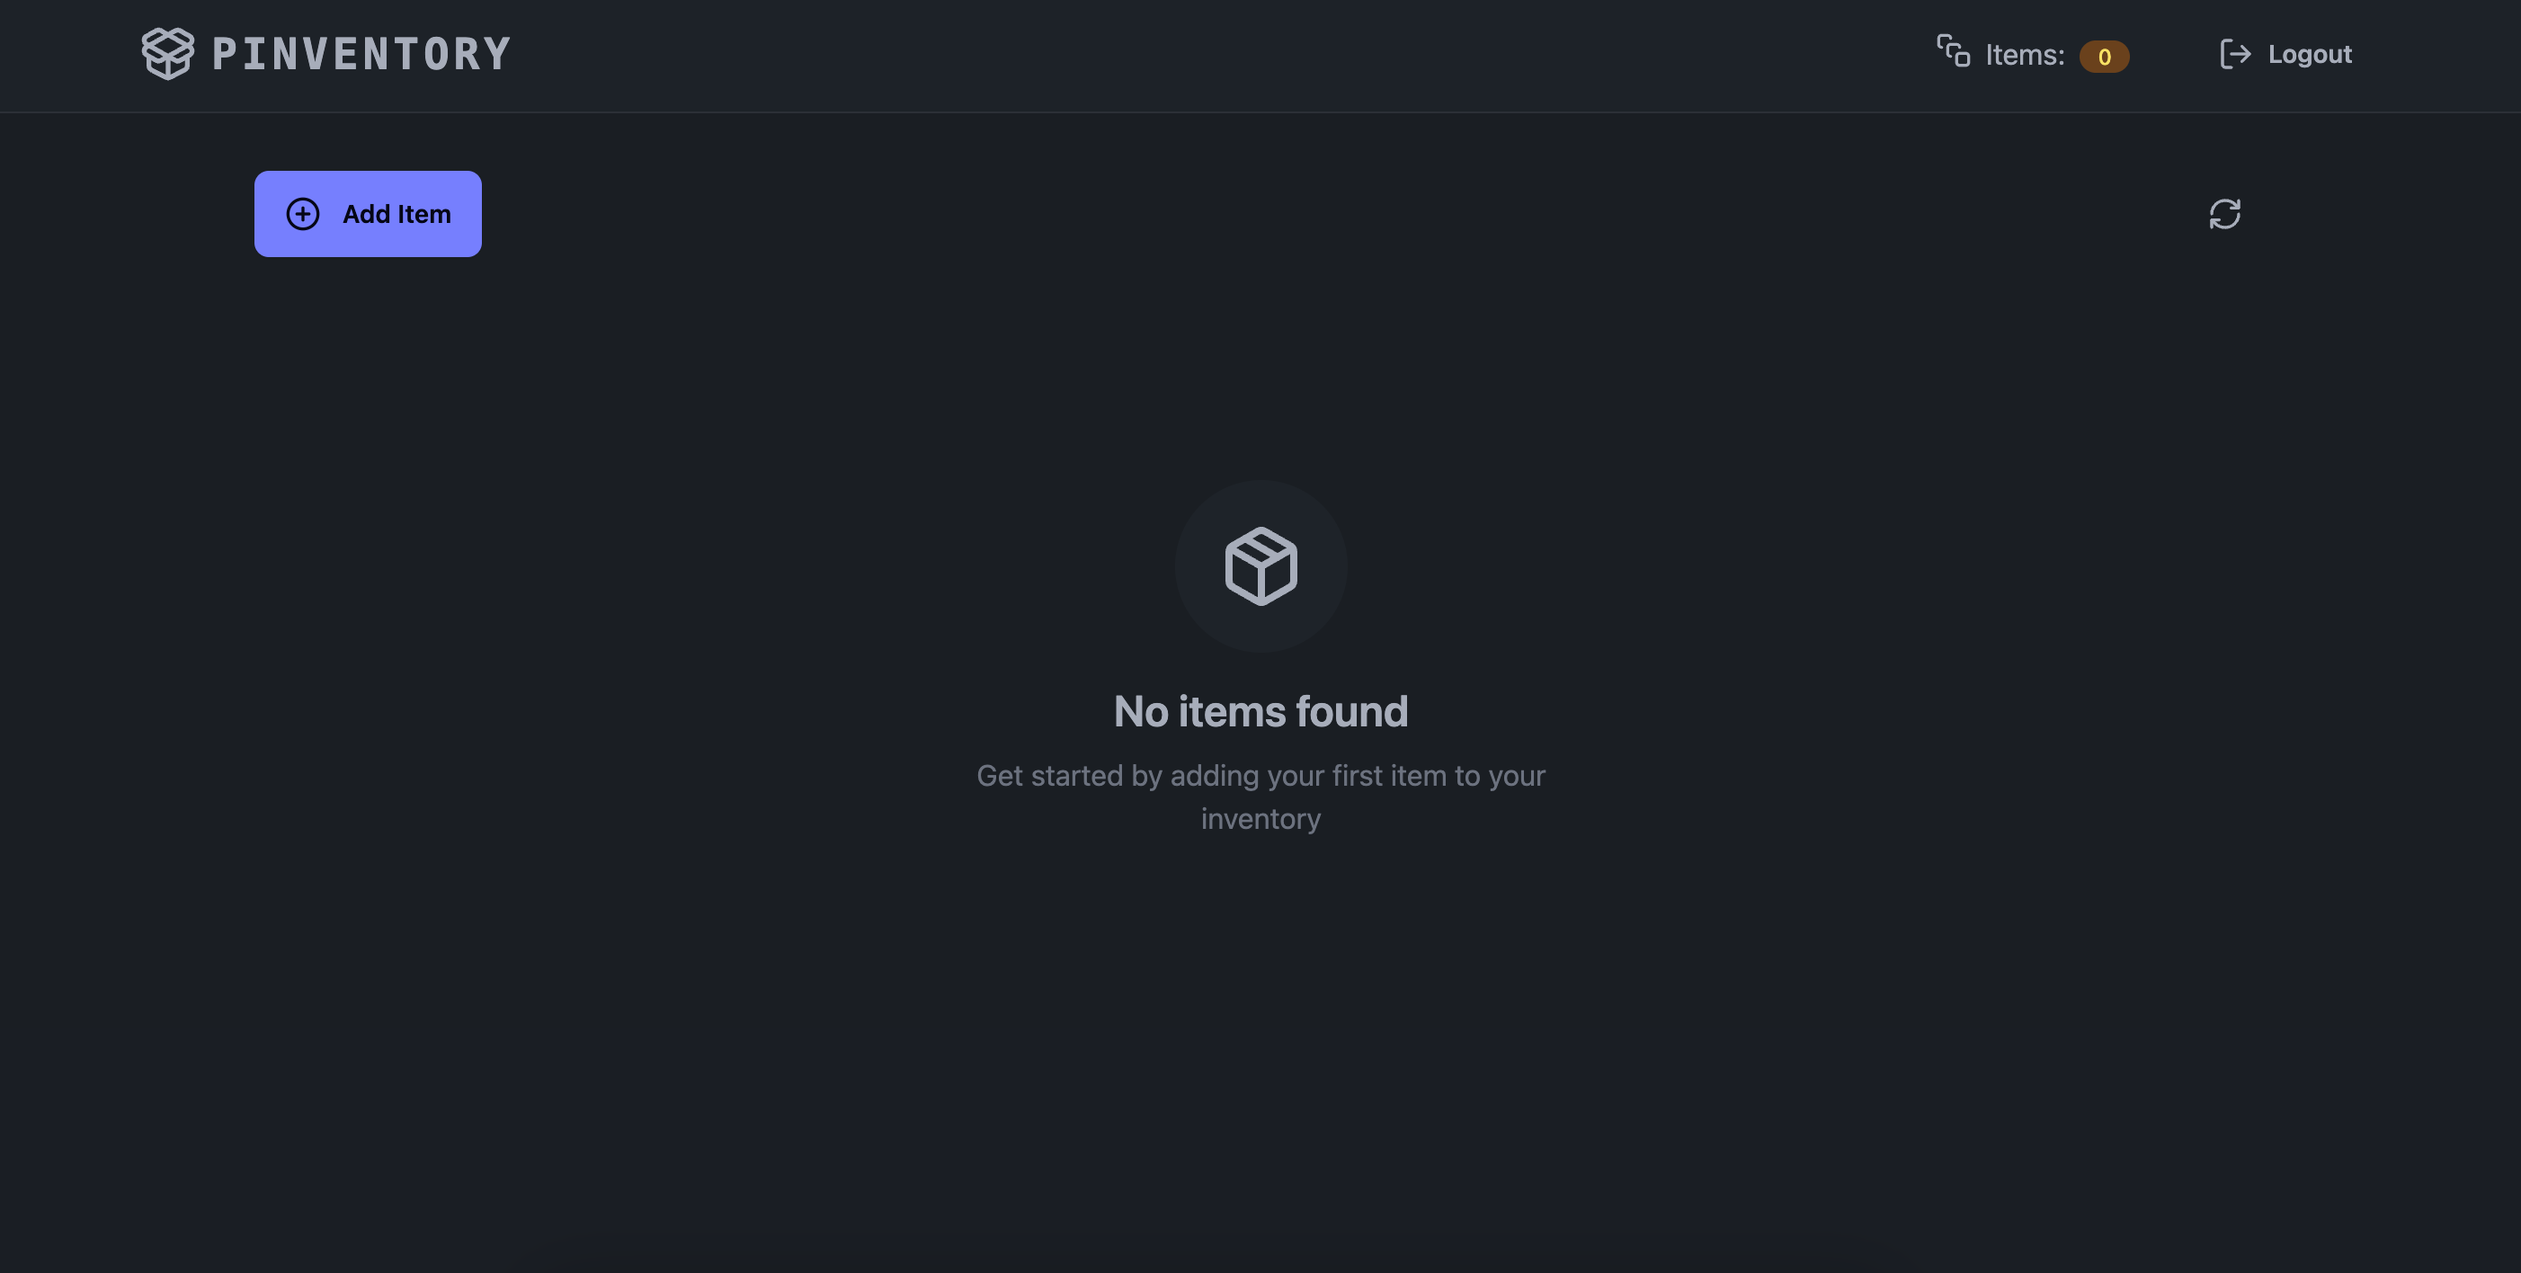
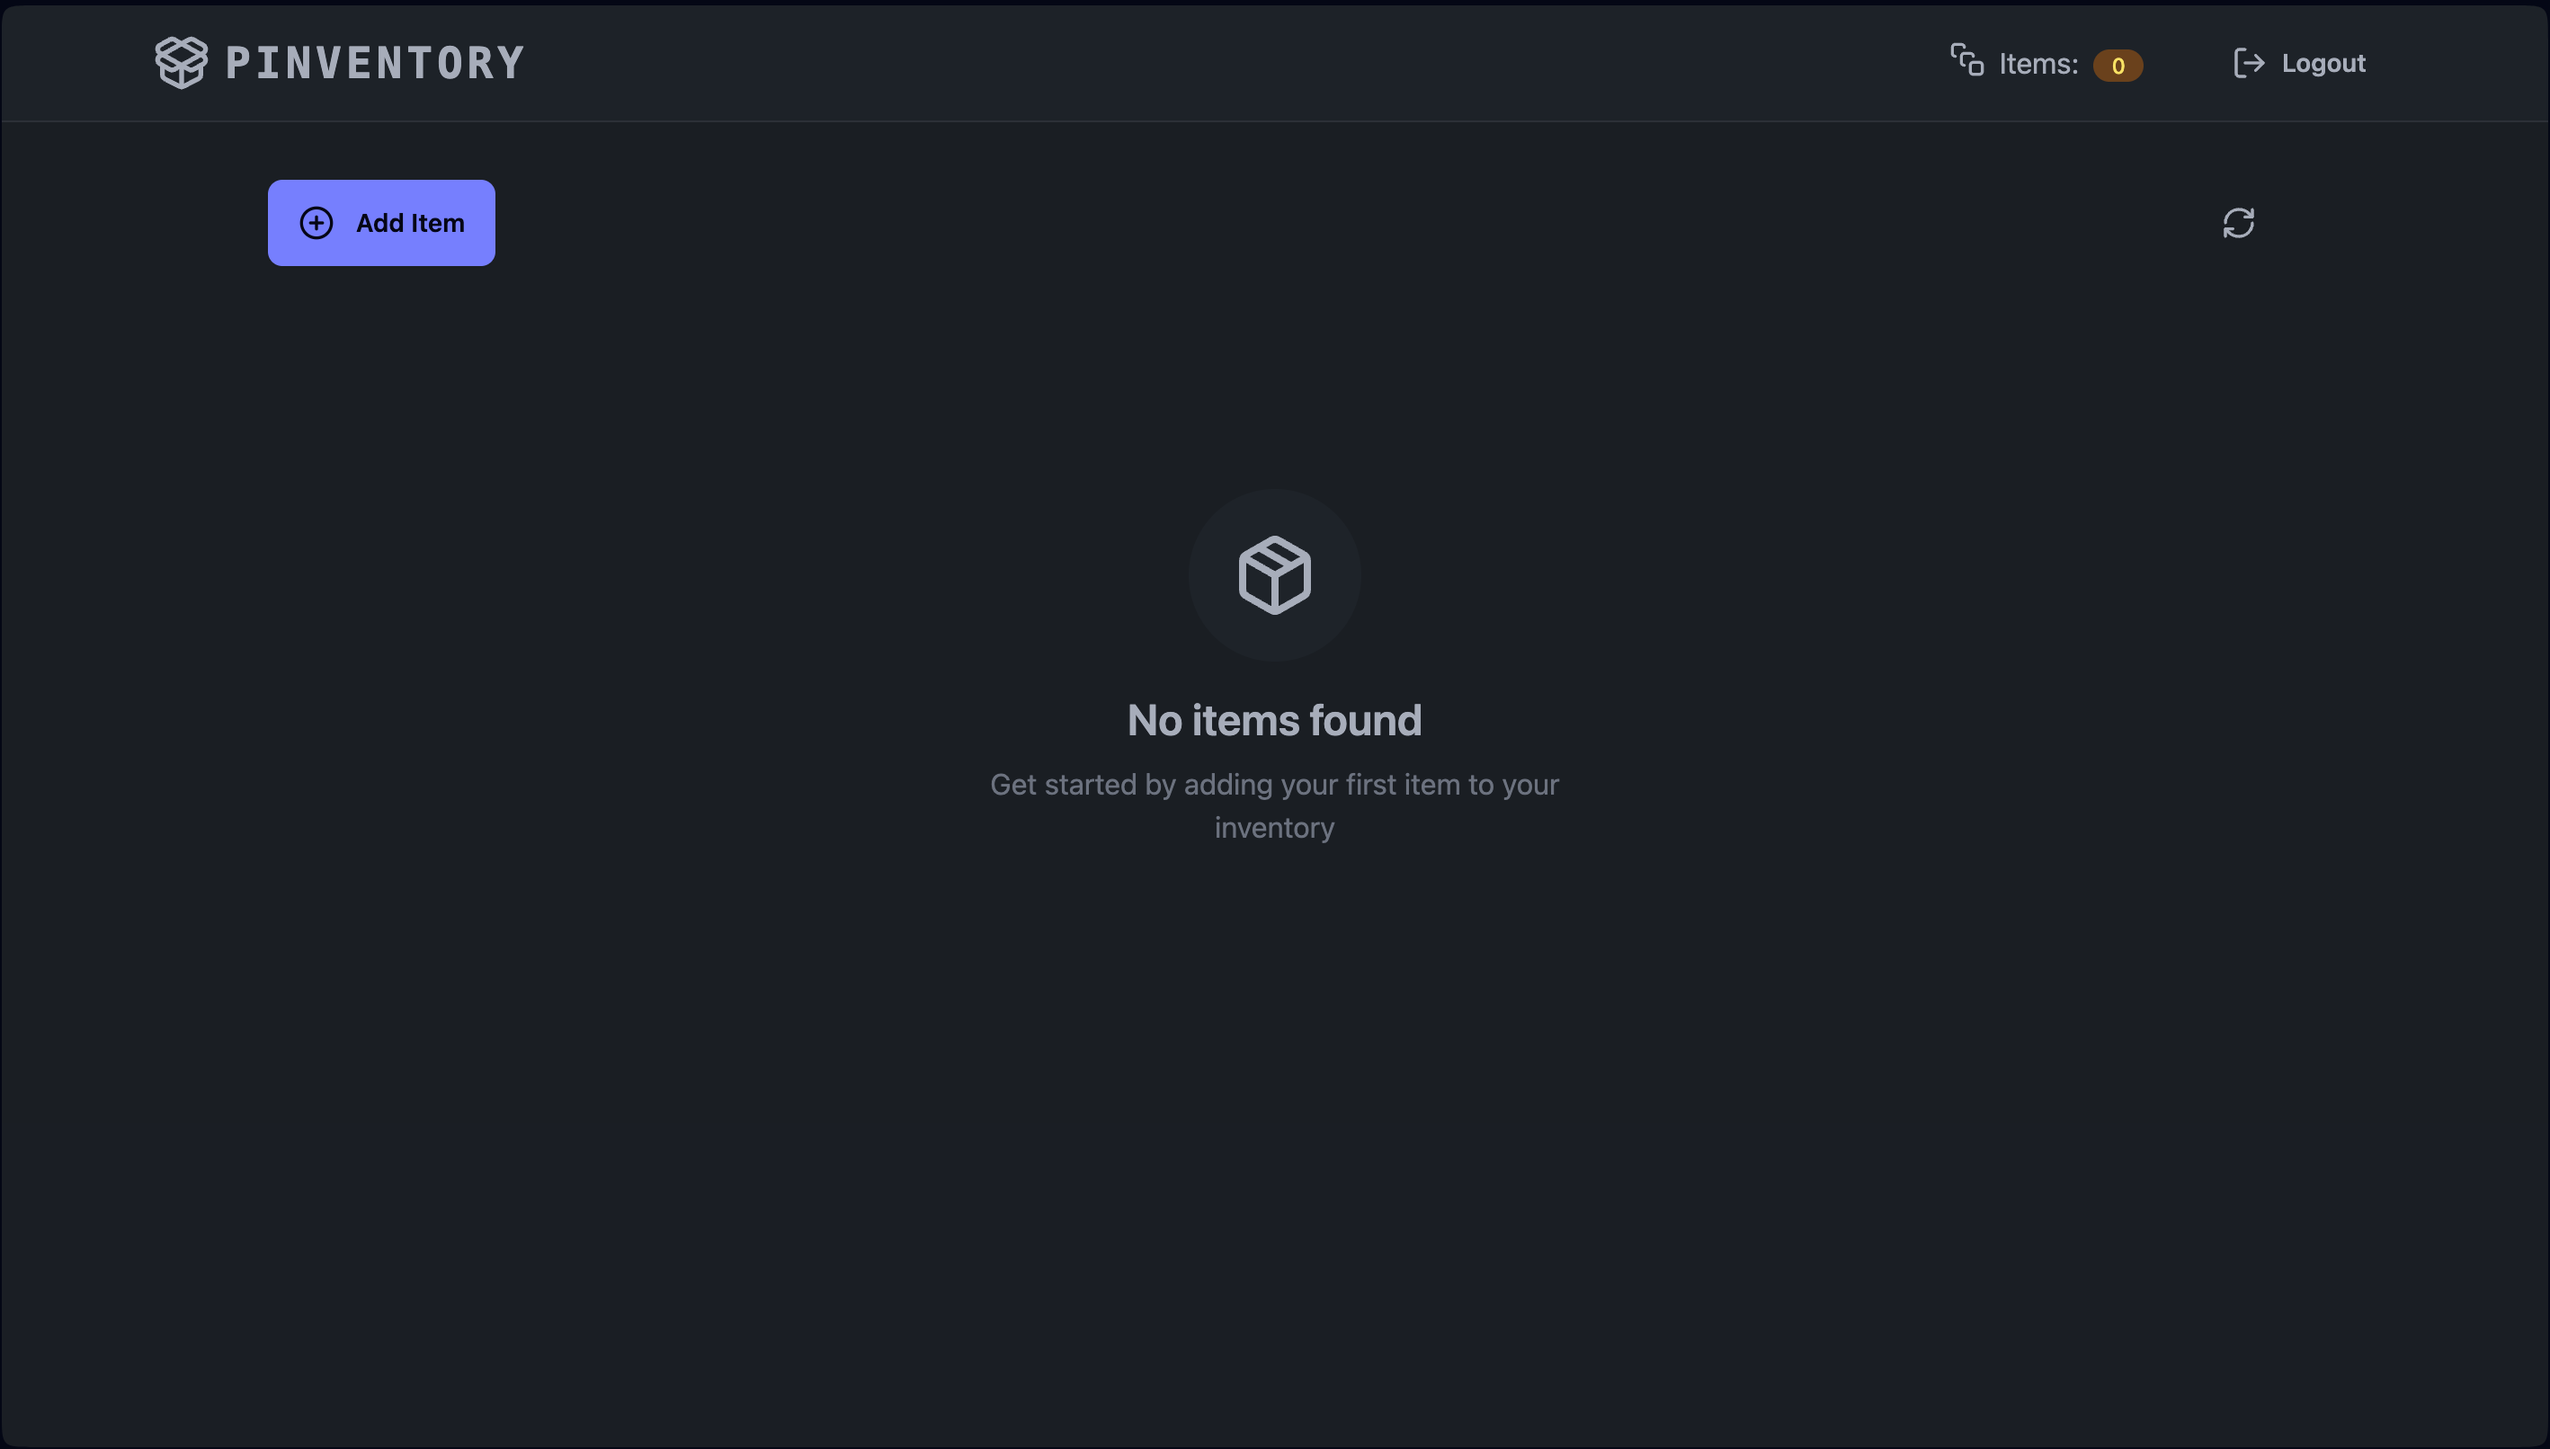
Added pinventory to portfolio website.

diff --git a/src/components/ProjectSlider.jsx b/src/components/ProjectSlider.jsx
@@ -25,7 +25,7 @@ const ProjectSlider = (props) => {
                     </a>
                     <div>
                         <h3>Pinventory</h3>
-                        <p>Pinventory is a PERN web application built and designed to enable users to keep track of what items they own in their house, garage, warehouse, wherever! <br/><br/> This project highlights my ability to create a full-stack application by handling the creation of both the API and client-facing, interactive part of a project using React <br/><br/> Note that this project uses the free services of rednder.com, so loading the website might take a while at first.</p>
+                        <p>Pinventory is a PERN web application built and designed to enable users to keep track of what items they own in their house, garage, warehouse, wherever! <br/><br/> This project highlights my ability to create a full-stack application by handling the creation of both the API and client-facing, interactive part of a project using React <br/><br/> Note that this project uses the free services of <a href="https://render.com">render.com</a>, so loading the website might take a while at first.</p>
                     </div>
                 </Wrap>
                 <Wrap>
@@ -161,6 +161,7 @@ const Wrap = styled.div`
                 transition: transform 0.3s ease-in-out;
             }
         }
+        
     }
 
     div {
@@ -177,6 +178,14 @@ const Wrap = styled.div`
         p {
             margin: 50px;
             margin-top: 10px;
+            letter-spacing: 1px;
+
+            a {
+                display: inline;
+                color: #0077cc;
+                margin: 0;
+                padding: 0;
+            }
         }
     }
 `;

diff --git a/src/index.css b/src/index.css
@@ -13,6 +13,7 @@ body {
   font-family: 'Times New Roman', Times, serif;
   margin: 0;
   padding: 0;
+  letter-spacing: 1px;
 }
 
 a {
